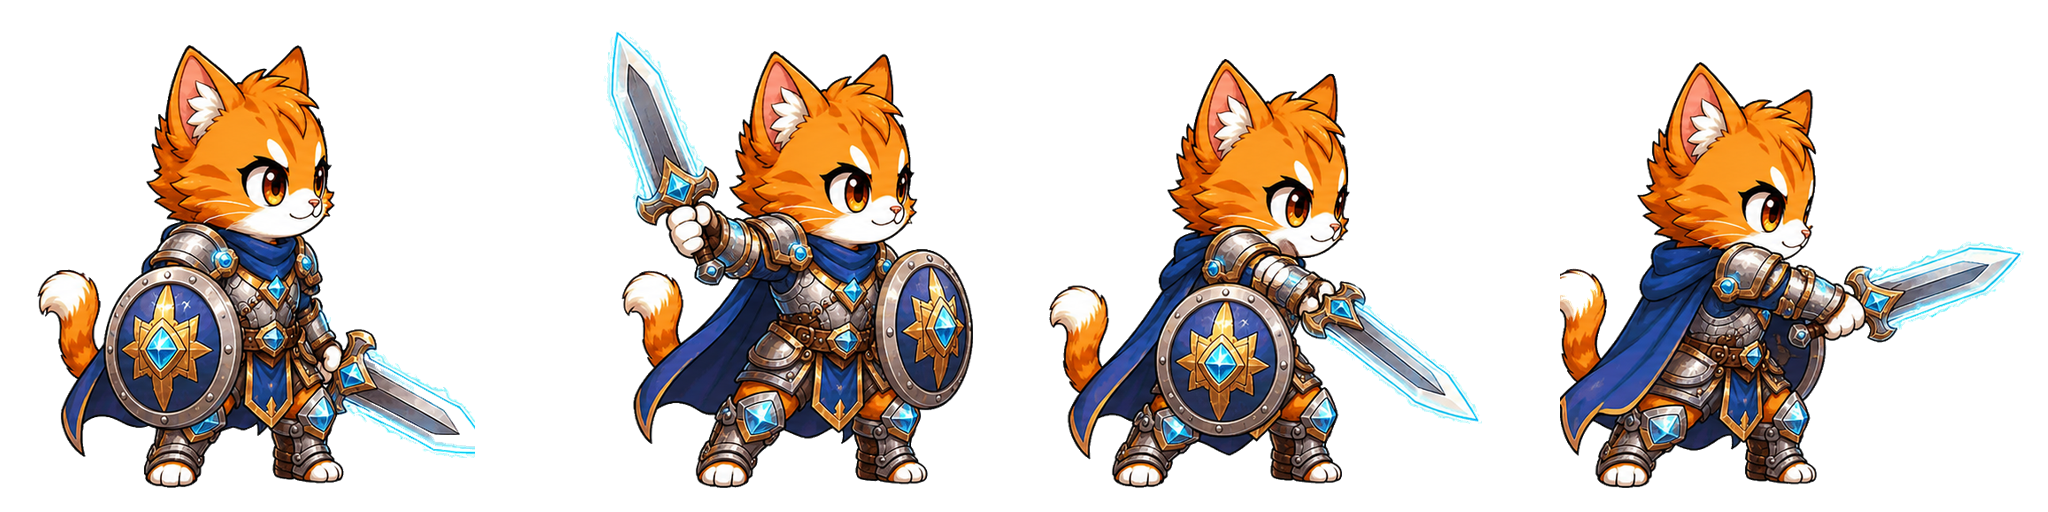
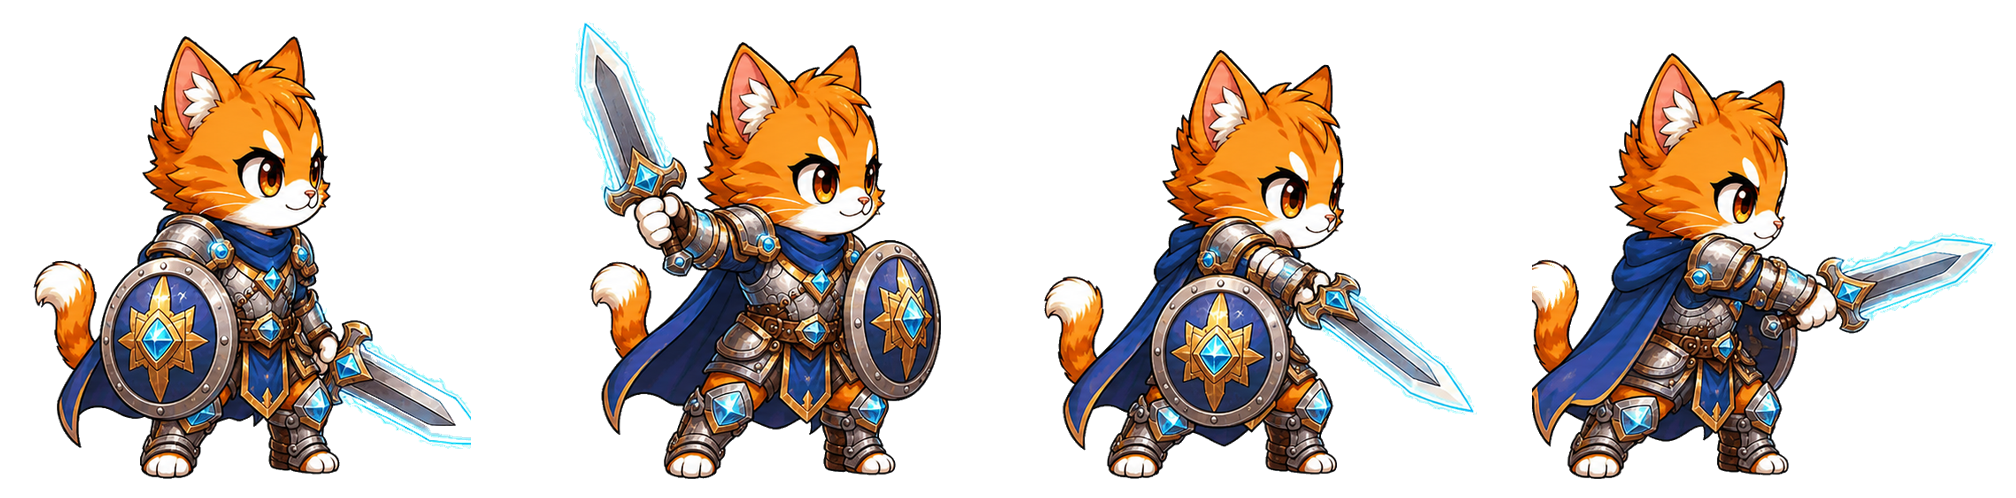
전직하면 게임이 멈추던 것 · 시트 재단 · 순위를 profiles 에서
--- 멈춤 (급한 것) ---
파일 이름 구분자가 두 벌인데 코드가 한 벌만 알았다:
    captain_warrior_idle.png   1단계는 밑줄
    PR-warrior-2-idle.png      2·3단계는 붙임표 (전직 UI 이름을 물려받았다)

scene 은 `${capId}_idle` 로 찾아서 2단계부터 idle·attack·walk 를 전부 못
찾았고, 그림이 하나도 없어 단장이 아예 안 만들어졌다. capFile() 이 규칙을
흡수한다.

--- 시트 재단 ---
원본을 캐릭터 위치와 무관하게 일정 간격으로 잘라서, 캐릭터가 칸 한쪽에
치우치고 이펙트가 옆 칸으로 넘어가 있었다 (단장 지적). 18장을 다시 잘랐다 —
띠 전체에서 캐릭터를 다시 찾아 균일한 칸 가운데에 발을 맞춰 앉힌다.
크기는 안 건드린다(평행이동만). SHEET 표와 _idle 을 실측값으로 갱신했다.

남은 것 하나: PR-mage-3 의 3번 시전 마법이 4번 칸 왼쪽에 걸린다. 발사체가
3번보다 4번 고양이에 더 가까워 잉크 골짜기가 그 왼쪽에 생긴다 — 기하학으로는
못 가른다. 4번이 시전 후 자세라 그대로 뒀다.

--- 순위·목록 ---
순위 세 보드를 전부 profiles 에서 뽑는다 (topProfiles). rankings 컬렉션은
CP 하나뿐이라 스테이지·아레나가 더미였다. profiles 에는 cp·stage·arenaScore 가
다 있고 party·title·frame 까지 딸려 와서, **행이 곧 프로필 카드**가 된다:
  · 대표 용병이 그 사람 편성의 첫 자리다 (예전엔 등수로 고른 장식)
  · 액자·칭호가 실제 착용값이다
  · 아바타를 누르면 카드가 뜬다 — 채팅과 같은 함수를 쓴다

배포본에서 지어낸 데이터를 걷어냈다. 아레나 상대와 연합 단원이 DEMO 게이트
없이 그려지고 있었다 — 가짜 상대와 싸워 오른 점수가 순위표에서 진짜와 섞이면
표 자체가 거짓이 된다. 순위표 더미도 개발 빌드로 묶었다.

Changed region(s): [[0.2812, 0.0602, 1.0, 0.9639], [0.0, 0.0602, 0.25, 0.9639]]

diff --git a/game/src/view/rank.js b/game/src/view/rank.js
@@ -12,6 +12,11 @@ import { cpNum, num } from '../core/fmt.js';
 import { LANGS, t } from '../core/i18n.js';
 import * as live from '../net/live.js';
 
+// 지어낸 순위표는 **개발 빌드에서만**. 배포본에서 가짜 등수가 서 있으면
+// 유저는 그걸 진짜로 믿는다 — 아무도 없으면 빈 표가 사실이다
+// (main.js 의 DEMO_SOCIAL 과 같은 원칙, 단장 지시 2026-08-26)
+const DEMO_RANK = !import.meta.env.PROD;
+
 
 // 더미 순위표의 이름. **닉네임은 고유명사라 번역하지 않는다** — 다만 한국어
 // 이름만 늘어놓으면 외국어 화면에서 이 표만 한글 덩어리가 된다. 로마자를 같이 둔다
@@ -40,13 +45,22 @@ export class RankScreen {
       <div id="rkMine"></div>`;
     root.appendChild(this.el);
     this.el.querySelector('.sh-back').addEventListener('click', () => this.close());
+    // 순위 아바타를 누르면 그 사람 프로필 카드. 채팅과 같은 규칙이다 —
+    // **그림을 누른다**, 이름이나 점수 글자가 아니라.
+    // 20행에 리스너 20개를 다는 대신 한 곳이 위임으로 받는다
+    this.el.addEventListener('click', e => {
+      const acc = e.target.closest?.('[data-rkacc]')?.dataset.rkacc;
+      if (acc) this.api.openProfile?.(acc);
+    });
   }
 
   open() {
     this.el.classList.add('show');
     this.render();
     // 서버 값이 늦게 오면 그때 다시 그린다. 처음엔 캐시(또는 더미)로 즉시 뜬다
-    live.pullRank(() => { if (this.el.classList.contains('show')) this.render(); });
+    const again = () => { if (this.el.classList.contains('show')) this.render(); };
+    live.pullRank(again);
+    live.pullTop(this.tab || 'power', again);
   }
   close() { this.el.classList.remove('show'); }
 
@@ -66,21 +80,32 @@ export class RankScreen {
    * 때린다 — 시즌 컬렉션(rankings_s1…)을 설계할 때 같이 정하는 게 맞다.
    */
   rows(board) {
-    if (board === 'power') {
-      const top = live.get('rankTop');
-      if (top?.length) {
-        const P = this.api.data.profile;
-        return top.map((r, i) => ({
-          rank: i + 1,
-          name: r.nickname || '단장',
-          merc: FEATURED[i % FEATURED.length],
-          title: '',
-          frame: P.profileFrame.unlocks[Math.max(0, 3 - Math.floor(i / 6))]?.color || '#9E9E9E',
-          score: r.score || 0,
-        }));
-      }
+    // **세 보드 다 profiles 에서 온다** (단장 지시 2026-08-26).
+    // 예전에는 power 만 rankings 컬렉션을 쓰고 stage·arena 는 더미를 지어냈다.
+    // profiles 에는 cp·stage·arenaScore 가 다 있고 party·title·frame 까지 딸려
+    // 와서, 행이 그대로 프로필 카드가 된다 — 눌러서 남의 편성을 볼 수 있다.
+    const top = live.getTop(board);
+    if (top?.length) {
+      const P = this.api.data.profile;
+      const D = this.api.data;
+      return top.map((r, i) => ({
+        rank: i + 1,
+        name: r.nickname || '단장',
+        // 대표 용병은 **그 사람 편성의 첫 자리**다. 예전에는 등수로 고른
+        // 장식이라 남의 조합과 아무 상관이 없었다
+        merc: (r.party || []).map(m => m.id)
+          .find(id => D.characters.characters.some(c => c.id === id))
+          || FEATURED[i % FEATURED.length],
+        title: r.title || '',
+        frame: P.profileFrame.unlocks.find(f => f.id === r.frame)?.color
+          || P.profileFrame.unlocks[Math.max(0, 3 - Math.floor(i / 6))]?.color || '#9E9E9E',
+        score: r.score || 0,
+        account: r.account || '',       // 눌렀을 때 카드를 띄우는 열쇠
+      }));
     }
-    return this.dummyRows(board);
+    // 서버에 아직 아무도 없으면 **개발 빌드에서만** 더미를 세운다.
+    // 배포본에서 지어낸 순위표는 유저가 진짜로 믿는다
+    return DEMO_RANK ? this.dummyRows(board) : [];
   }
 
   /** 서버가 없거나 보드에 컬렉션이 없을 때. 내 점수 주변으로 지어낸다 */
@@ -148,7 +173,8 @@ export class RankScreen {
     this.el.querySelector('#rkBody').innerHTML = head + rows.map(r => `
       <div class="rk-row${r.rank <= 3 ? ' top' : ''}">
         <span class="rk-n rk-${r.rank <= 3 ? r.rank : 'x'}">${r.rank}</span>
-        <span class="rk-ava" style="border-color:${r.frame}">
+        <span class="rk-ava" style="border-color:${r.frame}"${
+          r.account ? ` data-rkacc="${r.account}"` : ''}>
           <img src="/assets/char/${r.merc}.webp" alt="">
         </span>
         <span class="rk-who">

diff --git a/game/src/view/battle/scene.js b/game/src/view/battle/scene.js
@@ -72,17 +72,18 @@ const rnd = (a, b) => a + Math.random() * (b - a);
 //
 // 값은 전부 정리 스크립트가 시트를 재서 뱉은 것이다. 눈대중 금지.
 const SHEET = {
-  captain_warrior: { atk: { n: 4, h: 266, foot: 305 }, walk: { n: 8, h: 357, foot: 381 } },
-  captain_archer:  { atk: { n: 4, h: 420, foot: 487 }, walk: { n: 8, h: 464, foot: 487 } },
-  captain_mage:    { atk: { n: 4, h: 457, foot: 487 }, walk: { n: 8, h: 464, foot: 487 } },
+  captain_warrior: { atk: { n: 4, h: 266, foot: 286 }, walk: { n: 8, h: 357, foot: 377 } },
+  captain_archer:  { atk: { n: 4, h: 420, foot: 440 }, walk: { n: 8, h: 464, foot: 484 } },
+  captain_mage:    { atk: { n: 4, h: 457, foot: 477 }, walk: { n: 8, h: 464, foot: 484 } },
 
-  'PR-warrior-2': { atk: { n: 4, h: 458, foot: 487 }, walk: { n: 8, h: 464, foot: 487 } },
-  'PR-warrior-3': { atk: { n: 4, h: 449, foot: 487 }, walk: { n: 8, h: 464, foot: 487 } },
-  'PR-archer-2':  { atk: { n: 4, h: 340, foot: 363 }, walk: { n: 8, h: 461, foot: 487 } },
-  'PR-archer-3':  { atk: { n: 4, h: 413, foot: 487 }, walk: { n: 8, h: 399, foot: 427 } },
-  'PR-mage-2':    { atk: { n: 4, h: 464, foot: 487 }, walk: { n: 8, h: 464, foot: 487 } },
-  'PR-mage-3':    { atk: { n: 4, h: 464, foot: 487 }, walk: { n: 8, h: 464, foot: 487 } },
+  'PR-warrior-2': { atk: { n: 4, h: 458, foot: 478 }, walk: { n: 8, h: 464, foot: 484 } },
+  'PR-warrior-3': { atk: { n: 4, h: 449, foot: 469 }, walk: { n: 8, h: 359, foot: 379 } },
+  'PR-archer-2':  { atk: { n: 4, h: 340, foot: 360 }, walk: { n: 8, h: 461, foot: 481 } },
+  'PR-archer-3':  { atk: { n: 4, h: 413, foot: 433 }, walk: { n: 8, h: 399, foot: 419 } },
+  'PR-mage-2':    { atk: { n: 4, h: 464, foot: 484 }, walk: { n: 8, h: 464, foot: 484 } },
+  'PR-mage-3':    { atk: { n: 4, h: 464, foot: 484 }, walk: { n: 8, h: 464, foot: 484 } },
 };
+
 
 /**
  * 이 직군·단계가 쓸 에셋 이름. 단계 시트가 없으면 직군 기본으로 내려온다 —
@@ -92,6 +93,19 @@ function captainAsset(cls, tier) {
   const pr = `PR-${cls}-${tier}`;
   return tier > 1 && SHEET[pr] ? pr : `captain_${cls}`;
 }
+
+/**
+ * 시트 파일 경로. **구분자가 두 벌이라 여기서 흡수한다.**
+ *   captain_warrior_idle.png   1단계는 밑줄  (captain_<직군>_<종류>)
+ *   PR-warrior-2-idle.png      2·3단계는 붙임표 (PR-<직군>-<단계>-<종류>)
+ * 전직 UI 가 쓰던 PR- 이름을 그대로 물려받아서 이렇게 됐다.
+ *
+ * 이걸 몰라서 2단계로 승급하면 `PR-warrior-2_idle` 을 찾다 전부 실패했고,
+ * 그림이 하나도 없어 단장이 아예 안 만들어졌다 — **전직하면 게임이 멈췄다**
+ * (단장 지적 2026-08-26).
+ */
+const capFile = (id, kind) =>
+  `/assets/captain/${id}${id.startsWith('PR-') ? '-' : '_'}${kind}`;
 
 const WALK_FPS = 12;              // 8프레임이면 한 걸음 주기 약 0.67초
 
@@ -364,12 +378,13 @@ export class BattleScene {
     //
     // 원본 captain_warrior.png 는 **그대로 둔다** — UI 초상(명부·프로필)이 정사각
     // 1024² 를 전제로 배치돼 있고, 무기 팔 컷아웃도 그 좌표계다.
-    const idle = await this.loadSprite(`/assets/captain/${capId}_idle`);
+    const idle = await this.loadSprite(capFile(capId, 'idle'));
     const base = idle.tex ? idle : await this.loadSprite(`/assets/captain/${capId}`);
     const { tex: capTex, src: capSrc } = base;
-    const baseId = idle.tex ? `${capId}_idle` : capId;
-    const { tex: capAttackTex } = await this.loadSprite(`/assets/captain/${capId}_attack`);
-    const { tex: capWalkTex } = await this.loadSprite(`/assets/captain/${capId}_walk`);
+    const idleId = capId + (capId.startsWith('PR-') ? '-' : '_') + 'idle';
+    const baseId = idle.tex ? idleId : capId;
+    const { tex: capAttackTex } = await this.loadSprite(capFile(capId, 'attack'));
+    const { tex: capWalkTex } = await this.loadSprite(capFile(capId, 'walk'));
     if (capTex) {
       // 팔 컷아웃은 1024² 원화 좌표라 _idle 그림에는 안 맞는다 — 엉뚱한 데를
       // 떼어 낸다. _idle 을 쓰는 동안에는 몸통 리그만 쓴다.

diff --git a/game/src/main.js b/game/src/main.js
@@ -4677,7 +4677,10 @@ function arenaFoes() {
         .filter(Boolean),
     }));
   }
-  return demoArenaFoes();
+  // **배포본에서는 지어낸 상대를 세우지 않는다** (단장 지시 2026-08-26).
+  // 서버가 아직 다른 계정을 못 찾으면 빈 채로 둔다 — 가짜 상대와 싸워 오른
+  // 점수는 순위표에서 진짜 점수와 섞이고, 그러면 순위 자체가 거짓이 된다.
+  return DEMO_SOCIAL ? demoArenaFoes() : [];
 }
 
 /** 서버가 없을 때의 상대. 날짜 시드라 하루 동안은 같은 얼굴이다 */
@@ -5345,11 +5348,14 @@ function openAlliance(tab = 'home') {
          <span class="al-mem-t"><b>${S.nickname || '나'}</b><i>단장</i></span>
          <span class="al-mem-c">${coin}${num(S.allyCoin || 0)}</span>
          <span class="al-on">접속 중</span></div>`
-        + ALLY_DEMO.map(m => `<div class="al-mem">
+        // **데모 주민은 개발 빌드에서만** (단장 지시 2026-08-26).
+        // 배포본에서 지어낸 단원이 서 있으면 유저는 그게 진짜인 줄 안다.
+        // 아무도 없으면 나 혼자 서 있는 게 사실이고, 그게 맞는 화면이다.
+        + (DEMO_SOCIAL ? ALLY_DEMO.map(m => `<div class="al-mem">
          <span class="rk-ava"><img src="/assets/char/${m.ava}.webp" alt=""></span>
          <span class="al-mem-t"><b>${m.name}</b><i>${m.role}</i></span>
          <span class="al-mem-c">${coin}${num(m.coin)}</span>
-         <span class="al-on${m.on ? '' : ' off'}">${m.on ? '접속 중' : m.last}</span></div>`).join('');
+         <span class="al-on${m.on ? '' : ' off'}">${m.on ? '접속 중' : m.last}</span></div>`).join('') : '');
     return home() + `<div class="lbl" style="margin:12px 0 6px">${t('단원')}</div>` + list
       + `<button class="st-danger" data-al-leave style="margin-top:8px">${t('연합 탈퇴')}</button>`;
   };
@@ -6996,7 +7002,10 @@ function bootTapToStart() {
   });
   rank = new RankScreen($('#app'), { state: S, data: D, cp: totalCp,
     // 스테이지 번호를 화면에서 쓰는 표기(일반 2-6)로 바꿔 준다
-    stageText: n => stageLabel(n).text });
+    stageText: n => stageLabel(n).text,
+    // 순위 아바타를 누르면 뜨는 카드. 채팅이 쓰는 것과 **같은 함수**다 —
+    // 카드 문법이 두 벌이 되면 반드시 어긋난다
+    openProfile: acc => openChatProfile(acc) });
   mail = new MailScreen($('#app'), {
     state: S, data: D,
     claim: i => claimMail(i),

diff --git a/server.js b/server.js
@@ -162,7 +162,7 @@ const PRODUCTS = {
 
 // 배포 반영 확인용 표식. **server.js 를 고칠 때마다 올린다.**
 // serverInfo() 가 이 값을 돌려주므로 클라에서 어느 판이 도는지 바로 보인다.
-const SERVER_REV = 3;
+const SERVER_REV = 4;
 
 const CHAT_WORLD = 'chatWorld';
 const CHAT_ALLY = 'chatAlly_';
@@ -402,6 +402,27 @@ class Server {
   async getTopRankings(limit) {
     const n = Math.min(50, Math.max(1, limit | 0 || 20));
     return sortedTop('rankings', {}, 'score', n);
+  }
+
+  /**
+   * 보드별 순위를 **profiles 에서** 뽑는다.
+   *
+   * rankings 컬렉션은 CP 하나뿐이라, 스테이지·아레나 보드는 화면이 더미를
+   * 지어내고 있었다 (단장 지적 2026-08-26). 보드마다 컬렉션을 새로 파면
+   * 조회가 유일한 전역 공유 자원을 세 배로 때린다.
+   *
+   * profiles 에는 이미 cp·stage·arenaScore 가 다 들어 있다 (submitProfile).
+   * 게다가 party·title·frame 까지 있어서 **순위 행이 곧 프로필 카드**가 된다 —
+   * 등수를 누르면 그 사람 편성을 볼 수 있다.
+   */
+  async topProfiles(board, limit) {
+    const FIELD = { power: 'cp', stage: 'stage', arena: 'arenaScore' };
+    const f = FIELD[board] || 'cp';
+    const n = Math.min(50, Math.max(1, limit | 0 || 20));
+    const rows = await sortedTop('profiles', {}, f, n);
+    // 그 보드 점수가 0 인 사람은 아직 순위에 낄 자격이 없다 — 스테이지 0,
+    // 아레나 무기록이 상위에 섞이면 표가 거짓이 된다
+    return rows.filter(r => (r[f] || 0) > 0).map(r => ({ ...r, score: r[f] || 0 }));
   }
 
   /** 내 최고 기록과 등수. 등수는 "나보다 높은 점수의 개수 + 1" 이다 */

diff --git a/game/src/net/live.js b/game/src/net/live.js
@@ -25,7 +25,12 @@ const cache = {
   friendReqs: null,    // 받은 신청
   arenaFoes: null,     // 상대 표본
   friendCands: null,   // 친구 추천 표본 (아레나보다 넓은 대역)
-  rankTop: null,       // 상위 20
+  rankTop: null,       // 상위 20 (CP — rankings 컬렉션)
+  // 보드별 순위. profiles 에서 뽑으므로 party·title·frame 까지 들어 있다 —
+  // 순위 행이 곧 프로필 카드다
+  topPower: null,
+  topStage: null,
+  topArena: null,
   myRank: null,        // { bestEntry, rank }
   giftBox: null,       // { sent:[account], inbox:[{id, from, fromNick, day}] }
   chatRooms: null,     // { world, ally } 구독할 컬렉션 이름
@@ -144,6 +149,18 @@ export const pullRank = onDone => {
   pull('rankTop', () => call('getTopRankings', [20]), onDone);
   pull('myRank', () => call('getMyBestRank'), onDone);
 };
+
+/**
+ * 보드별 순위. **profiles 에서 뽑는다** — cp·stage·arenaScore 가 다 거기 있고,
+ * party·title·frame 까지 딸려 와서 순위 행을 그대로 프로필 카드로 쓸 수 있다.
+ * 예전에는 rankings 컬렉션에 CP 하나뿐이라 스테이지·아레나 보드가 더미였다.
+ */
+const TOP_KEY = { power: 'topPower', stage: 'topStage', arena: 'topArena' };
+export const pullTop = (board, onDone) => {
+  const key = TOP_KEY[board];
+  if (key) pull(key, () => call('topProfiles', [board, 20]), onDone);
+};
+export const getTop = board => cache[TOP_KEY[board]] || null;
 
 /**
  * 아레나 상대. 내 CP 의 ±40% 대역에서 표본을 받는다 — 정교한 매칭이 아니라
